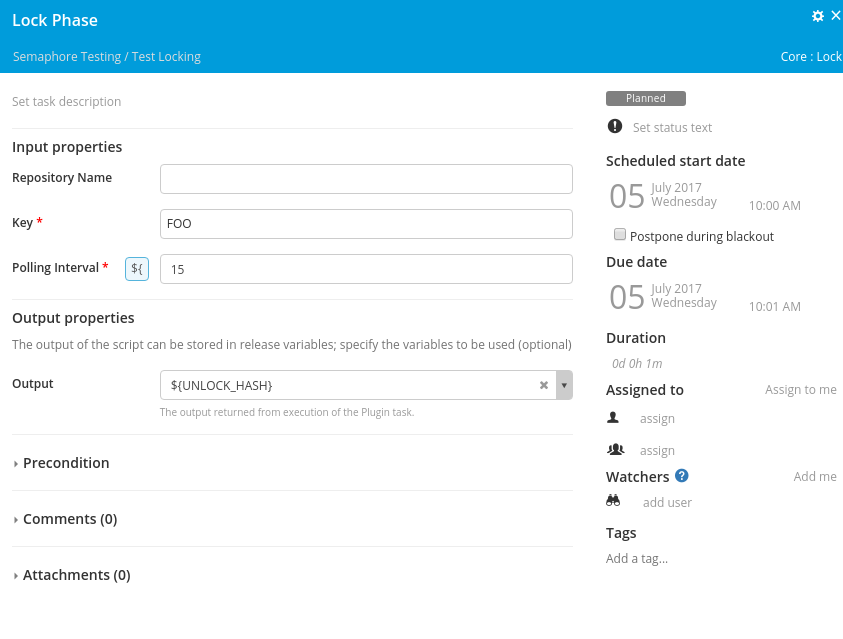
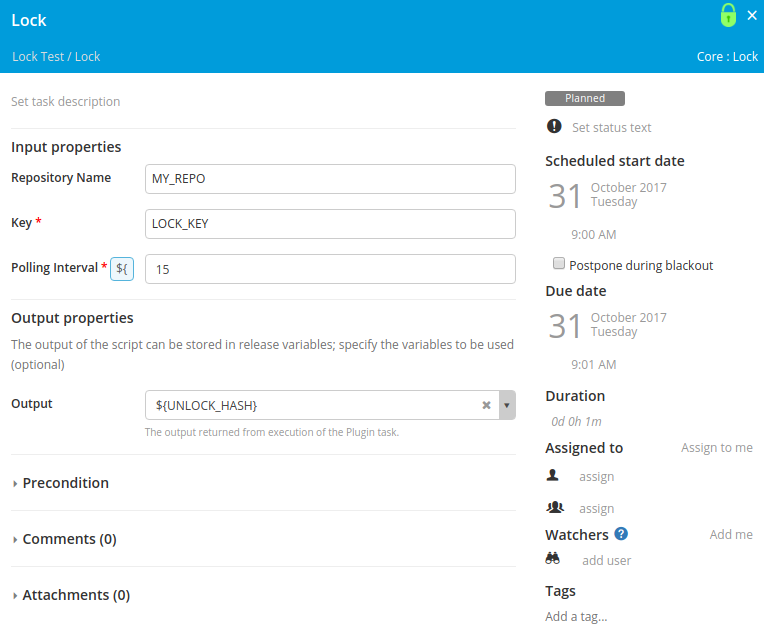
Scheduling
Switched the mechanism to check on lock status from polling to
XL Release's scheduling mechanism. This ensures that if the server
is restarted while waiting on a lock it will still be waiting on
it correctly when the server comes back online. Additionally,
added better icons for the lock/unlock tasks.

diff --git a/src/main/resources/core/SemaphoreClient.py b/src/main/resources/core/SemaphoreClient.py
@@ -9,14 +9,25 @@
 #
 
 
-import base64, time
+import base64, threading, time
 from com.xebialabs.deployit.exception import NotFoundException
 from com.xebialabs.xlrelease.api.v1.forms import Variable
 
 current_milli_time = lambda: int(round(time.time() * 1000))
 
+
+def synchronized_with_attr(lock_name):
+    def decorator(method):
+        def synced_method(self, *args, **kws):
+                lock = getattr(self, lock_name)
+                with lock:
+                    return method(self, *args, **kws)
+        return synced_method
+    return decorator
+
 class SemaphoreClient(object):
     def __init__(self, current_release, current_phase, configuration_api, release_api, phase_api):
+        self.lock = threading.RLock()
         self.release = current_release
         self.phase = current_phase
         self.config_api = configuration_api
@@ -28,43 +39,48 @@ class SemaphoreClient(object):
     def get_client(current_release, current_phase, configuration_api, release_api, phase_api):
         return SemaphoreClient(current_release, current_phase, configuration_api, release_api, phase_api)
 
-    def get_db(self, name, global_vars):
+    @staticmethod
+    def get_db_key(name):
         if name is None or not name:
             name = "DEFAULT_SEMAPHORE_DB"
-        key = "global.%s" % name
-        db = None
-        for v in global_vars:
+        return "global.%s" % name
+
+    def find_db(self, key):
+        for v in self.config_api.globalVariables:
             if v.key == key:
-                db = v
-        if db is not None:
-            return db
+                return v
+
+    def get_db(self, name):
+        key = SemaphoreClient.get_db_key(name)
+        db = self.find_db(key)
+        if db is None:
+            return self.initialize_db(key)
         else:
-            self.initialize_db(name)
-            return self.get_db(name, self.config_api.globalVariables)
+            return self.config_api.getGlobalVariable(db.getId())
 
-    def refresh_db(self, db):
-        return self.config_api.getGlobalVariable(db.getId())
-
-    def initialize_db(self, name):
+    def initialize_db(self, key):
         db = Variable()
         db.requiresValue = False
         db.showOnReleaseStart = False
         db.setType("xlrelease.MapStringStringVariable")
         mapping = {}
         db.setValue(mapping)
-        db.setKey("global.%s" % name)
-        self.config_api.addGlobalVariable(db)
+        db.setKey(key)
+        return self.config_api.addGlobalVariable(db)
 
+    @synchronized_with_attr("lock")
     def update_db(self, db):
         self.config_api.updateGlobalVariable(db)
 
+    @synchronized_with_attr("lock")
     def force_unlock_db(self, db, key):
-        db = self.refresh_db(db)
+        db = self.get_db(db.getKey())
         mapping = db.getValue()
         del mapping['%s_UNLOCK_HASH' % key]
         db.setValue(mapping)
         self.update_db(db)
 
+    @synchronized_with_attr("lock")
     def is_locked(self, db, key):
         locked = '%s_UNLOCK_HASH' % key in db.getValue()
         if not locked:
@@ -97,25 +113,33 @@ class SemaphoreClient(object):
         print "Key: %s in DB: %s -- LOCKED -- by Release: %s" % (key, db.getKey(), release_id)
         return True
 
+    @synchronized_with_attr("lock")
     def core_lock(self, variables):
         db_name = variables['repository_name']
-        db = self.get_db(db_name, self.config_api.globalVariables)
-        while self.is_locked(db, variables['key']):
-            time.sleep(variables['polling_interval'])
-            db = self.refresh_db(db)
-        db = self.refresh_db(db)
-        unlock_hash = base64.b64encode("%s,%s,%s" % (self.release.getId(), self.phase.getId(), str(current_milli_time())))
-        mapping = db.getValue()
-        mapping['%s_UNLOCK_HASH' % variables['key']] = unlock_hash
-        db.setValue(mapping)
-        self.update_db(db)
-        return {'output': unlock_hash}
+        db = self.get_db(db_name)
+        print "db: %s" % db
+        if self.is_locked(db, variables['key']):
+            if variables['repository_name']:
+                db_name = variables['repository_name']
+            else:
+                db_name = "DEFAULT_SEMAPHORE_DB"
+            variables['task'].setStatusLine("Waiting for lock on key: %s in db: %s" % (variables['key'], db_name))
+            variables['task'].schedule("core/SemaphoreTask.WaitForLock.py", variables['polling_interval'])
+        else:
+            db = self.get_db(db_name)
+            unlock_hash = base64.b64encode("%s,%s,%s" % (self.release.getId(), self.phase.getId(), str(current_milli_time())))
+            mapping = db.getValue()
+            mapping['%s_UNLOCK_HASH' % variables['key']] = unlock_hash
+            db.setValue(mapping)
+            self.update_db(db)
+            return {'output': unlock_hash}
 
+    @synchronized_with_attr("lock")
     def core_unlock(self, variables):
         if variables['unlock_hash'] is None:
             raise Exception("You must specify the unlock hash.")
         db_name = variables['repository_name']
-        db = self.get_db(db_name, self.config_api.globalVariables)
+        db = self.get_db(db_name)
         mapping = db.getValue()
         found = False
         for key, value in mapping.items():

diff --git a/src/main/resources/core/SemaphoreTask.WaitForLock.py b/src/main/resources/core/SemaphoreTask.WaitForLock.py
@@ -8,12 +8,26 @@
 # THE SOFTWARE IS PROVIDED "AS IS", WITHOUT WARRANTY OF ANY KIND, EXPRESS OR IMPLIED, INCLUDING BUT NOT LIMITED TO THE WARRANTIES OF MERCHANTABILITY, FITNESS FOR A PARTICULAR PURPOSE AND NONINFRINGEMENT. IN NO EVENT SHALL THE AUTHORS OR COPYRIGHT HOLDERS BE LIABLE FOR ANY CLAIM, DAMAGES OR OTHER LIABILITY, WHETHER IN AN ACTION OF CONTRACT, TORT OR OTHERWISE, ARISING FROM, OUT OF OR IN CONNECTION WITH THE SOFTWARE OR THE USE OR OTHER DEALINGS IN THE SOFTWARE.
 #
 
+import base64, time
 from core.SemaphoreClient import SemaphoreClient
 
+current_milli_time = lambda: int(round(time.time() * 1000))
+
 client = SemaphoreClient.get_client(getCurrentRelease(), getCurrentPhase(), configurationApi, releaseApi, phaseApi)
-method = str(task.getTaskType()).lower().replace('.', '_')
-call = getattr(client, method)
-response = call(locals())
-if response:
-    for key, value in response.items():
-        locals()[key] = value
+db = client.get_db(repository_name)
+
+if client.is_locked(db, key):
+    if repository_name:
+        db_name = repository_name
+    else:
+        db_name = "DEFAULT_SEMAPHORE_DB"
+    task.setStatusLine("Waiting for lock on key: %s in db: %s" % (key, db_name))
+    task.schedule("core/SemaphoreTask.WaitForLock.py", polling_interval)
+else:
+    db = client.get_db(repository_name)
+    unlock_hash = base64.b64encode("%s,%s,%s" % (release.getId(), phase.getId(), str(current_milli_time())))
+    mapping = db.getValue()
+    mapping['%s_UNLOCK_HASH' % key] = unlock_hash
+    db.setValue(mapping)
+    client.update_db(db)
+    output = unlock_hash
